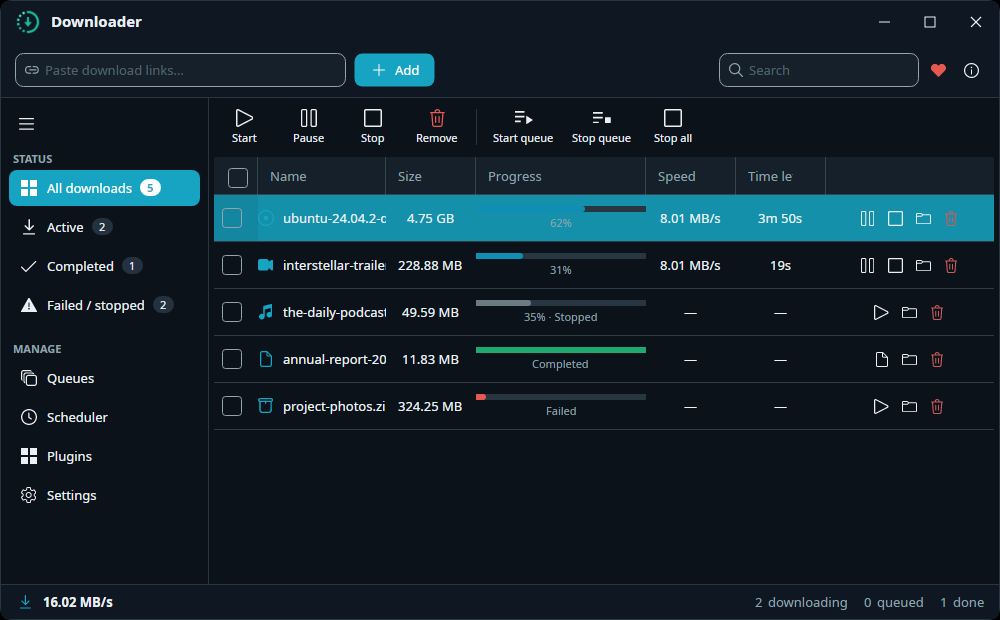
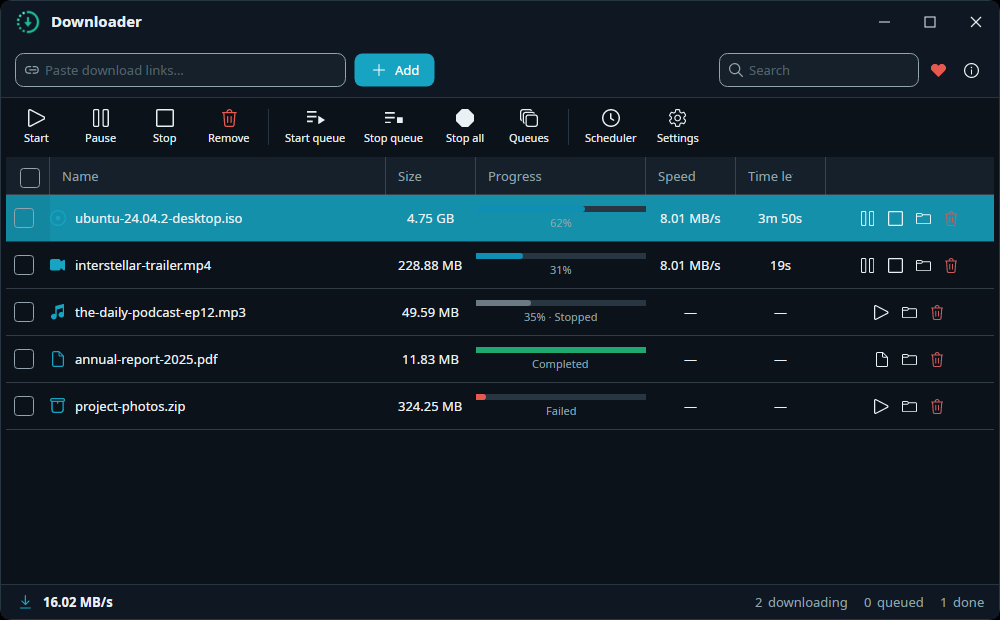
feat(ui): remove left nav rail; Queues/Scheduler/Settings as dialogs; Plugins into Settings
Big UX simplification (the left menu confused users):
- Removed the left nav rail entirely. The main view is ALWAYS the downloads list.
- Queues / Scheduler / Settings now open as DIALOGS over the list (new generic
  PageDialogView host + DialogHelper.ShowPage; Esc/title-bar close).
- Toolbar reads: | Start, Pause, Stop, Remove | Start queue, Stop queue, Stop all,
  Queues | Scheduler, Settings | (nav buttons bound to MainViewModel via the window).
- Dropped the status filters (All/Active/Completed/Failed) — search-box only, per
  the author's call.
- Plugins moved from a top-level menu into a collapsible 'Plugins (add-ons)' section
  in Settings (advanced; normal users never see it). PluginsView made embeddable.
- 'Update Downloader' (ready) button moved to the top bar.

124 tests green; screenshots regenerated (no left rail; dialogs).

Claude-Session: https://claude.ai/code/session_01MDReJvpoTvwzYi1LSTJyvR

diff --git a/src/Downloader.Desktop.Tests/CaptureScreenshots.cs b/src/Downloader.Desktop.Tests/CaptureScreenshots.cs
@@ -158,56 +158,48 @@ public class CaptureScreenshots
         Application.Current!.RequestedThemeVariant = ThemeVariant.Light;
         Save(window, "home-light.png");
 
-        // Settings page (dark + light, so the README can be theme-aware)
-        Application.Current!.RequestedThemeVariant = ThemeVariant.Dark;
-        vm.ShowSettingViewCommand.Execute(null);
-        Save(window, "settings-dark.png");
-        Application.Current!.RequestedThemeVariant = ThemeVariant.Light;
-        Save(window, "settings-light.png");
         Application.Current!.RequestedThemeVariant = ThemeVariant.Dark;
 
-        // Settings scrolled to the new Language(flag) + Theme + Accent controls so the accent picker and
-        // the country flag are actually visible in docs (they sit below the fold in the top-of-page shot).
+        // Management pages now open as DIALOGS over the always-downloads list (the left rail was removed).
+        // Render each via the PageDialogView host (Show, not ShowDialog, so the capture doesn't block).
+        var settingsDlg = new PageDialogView(vm.Settings, "Settings");
+        settingsDlg.Show();
+        Save(settingsDlg, "settings-dark.png");
+        Application.Current!.RequestedThemeVariant = ThemeVariant.Light;
+        Save(settingsDlg, "settings-light.png");
+        Application.Current!.RequestedThemeVariant = ThemeVariant.Dark;
+        // Scroll to the Theme/Accent/Language(flag) controls so the accent picker + flag are visible.
         Pump();
-        var settingsView = window.GetVisualDescendants().OfType<Downloader.Desktop.Views.SettingView>().FirstOrDefault();
-        var sv = settingsView?.GetVisualDescendants().OfType<Avalonia.Controls.ScrollViewer>().FirstOrDefault();
+        var sv = settingsDlg.GetVisualDescendants().OfType<Downloader.Desktop.Views.SettingView>().FirstOrDefault()
+            ?.GetVisualDescendants().OfType<Avalonia.Controls.ScrollViewer>().FirstOrDefault();
         if (sv != null)
         {
             sv.Offset = new Avalonia.Vector(0, 215);
-            Save(window, "settings-accent-dark.png");
+            Save(settingsDlg, "settings-accent-dark.png");
             Application.Current!.RequestedThemeVariant = ThemeVariant.Light;
-            Save(window, "settings-accent-light.png");
+            Save(settingsDlg, "settings-accent-light.png");
             Application.Current!.RequestedThemeVariant = ThemeVariant.Dark;
-            sv.Offset = default;
         }
+        settingsDlg.Close();
 
-        // Queues page (real queue manager: aggregate stats + per-item progress/actions).
-        vm.ShowQueuesCommand.Execute(null);
-        Save(window, "queues-dark.png");
+        var queuesDlg = new PageDialogView(vm.Queues, "Queues");
+        queuesDlg.Show();
+        Save(queuesDlg, "queues-dark.png");
         Application.Current!.RequestedThemeVariant = ThemeVariant.Light;
-        Save(window, "queues-light.png");
+        Save(queuesDlg, "queues-light.png");
         Application.Current!.RequestedThemeVariant = ThemeVariant.Dark;
+        queuesDlg.Close();
 
-        // Scheduler page (daily start/stop rules per queue).
-        vm.ShowSchedulerCommand.Execute(null);
-        Save(window, "scheduler-dark.png");
+        var schedulerDlg = new PageDialogView(vm.Scheduler, "Scheduler");
+        schedulerDlg.Show();
+        Save(schedulerDlg, "scheduler-dark.png");
         Application.Current!.RequestedThemeVariant = ThemeVariant.Light;
-        Save(window, "scheduler-light.png");
+        Save(schedulerDlg, "scheduler-light.png");
         Application.Current!.RequestedThemeVariant = ThemeVariant.Dark;
-
-        // Plugins page (add-ons that extend the app — HLS/video, torrents, …).
-        vm.ShowPluginsCommand.Execute(null);
-        Save(window, "plugins-dark.png");
-        Application.Current!.RequestedThemeVariant = ThemeVariant.Light;
-        Save(window, "plugins-light.png");
-        Application.Current!.RequestedThemeVariant = ThemeVariant.Dark;
-
-        vm.ShowSettingViewCommand.Execute(null); // leave a known page before the RTL capture
-        vm.ShowAllCommand.Execute(null);
+        schedulerDlg.Close();
 
         // Persian (RTL) home to verify translation + right-to-left mirroring.
         Localizer.Instance.Load("fa");
-        vm.ShowAllCommand.Execute(null);
         Save(window, "home-fa-dark.png");
         Localizer.Instance.Load("en");
 

diff --git a/src/Downloader.Desktop/ViewModels/MainViewModel.cs b/src/Downloader.Desktop/ViewModels/MainViewModel.cs
@@ -46,10 +46,10 @@ public class MainViewModel : ViewModelBase
         ShowActiveCommand = ReactiveCommand.Create(() => SelectFilter(StatusFilter.Active));
         ShowCompletedCommand = ReactiveCommand.Create(() => SelectFilter(StatusFilter.Completed));
         ShowFailedCommand = ReactiveCommand.Create(() => SelectFilter(StatusFilter.Failed));
-        ShowQueuesCommand = ReactiveCommand.Create(() => Navigate(NavSection.Queues));
-        ShowSchedulerCommand = ReactiveCommand.Create(() => Navigate(NavSection.Scheduler));
-        ShowPluginsCommand = ReactiveCommand.Create(() => Navigate(NavSection.Plugins));
-        ShowSettingViewCommand = ReactiveCommand.Create(() => Navigate(NavSection.Settings));
+        // Management pages open as dialogs over the always-downloads main view (the left rail was removed).
+        ShowQueuesCommand = ReactiveCommand.CreateFromTask(() => DialogHelper.ShowPage(Queues, Localizer.Instance["Nav_Queues"]));
+        ShowSchedulerCommand = ReactiveCommand.CreateFromTask(() => DialogHelper.ShowPage(Scheduler, Localizer.Instance["Nav_Scheduler"]));
+        ShowSettingViewCommand = ReactiveCommand.CreateFromTask(() => DialogHelper.ShowPage(Settings, Localizer.Instance["Nav_Settings"]));
         ToggleSidebarCommand = ReactiveCommand.Create(() => IsSidebarExpanded = !IsSidebarExpanded);
         ShowAboutCommand = ReactiveCommand.CreateFromTask(DialogHelper.ShowAbout);
         DonateCommand = ReactiveCommand.Create(() =>
@@ -71,7 +71,6 @@ public class MainViewModel : ViewModelBase
     public DownloadsViewModel Downloads { get; private set; }
     public QueuesViewModel Queues { get; private set; }
     public SchedulerViewModel Scheduler { get; private set; }
-    public PluginsViewModel Plugins { get; private set; }
     public SettingViewModel Settings { get; private set; }
 
     public object CurrentPage
@@ -91,7 +90,6 @@ public class MainViewModel : ViewModelBase
     public ICommand ShowFailedCommand { get; }
     public ICommand ShowQueuesCommand { get; }
     public ICommand ShowSchedulerCommand { get; }
-    public ICommand ShowPluginsCommand { get; }
     public ICommand ShowSettingViewCommand { get; }
     public ICommand ToggleSidebarCommand { get; }
     public ICommand ShowAboutCommand { get; }
@@ -140,7 +138,6 @@ public class MainViewModel : ViewModelBase
     public bool IsFailedSelected => _section == NavSection.Downloads && _filter == StatusFilter.Failed;
     public bool IsQueuesSelected => _section == NavSection.Queues;
     public bool IsSchedulerSelected => _section == NavSection.Scheduler;
-    public bool IsPluginsSelected => _section == NavSection.Plugins;
     public bool IsSettingsSelected => _section == NavSection.Settings;
 
     // ---- Status bar ----
@@ -175,8 +172,7 @@ public class MainViewModel : ViewModelBase
         Downloads = new DownloadsViewModel(_downloadManager);
         Queues = new QueuesViewModel(_config, _downloadManager);
         Scheduler = new SchedulerViewModel(_config, _downloadManager);
-        Plugins = new PluginsViewModel(_pluginManager, _config);
-        Settings = new SettingViewModel(_config, _downloadManager);
+        Settings = new SettingViewModel(_config, _downloadManager, _pluginManager); // Plugins live in Settings now
 
         // Persist settings to disk as soon as the user changes one (#24), debounced so spinning a
         // NumericUpDown doesn't hammer the file.
@@ -369,7 +365,6 @@ public class MainViewModel : ViewModelBase
         {
             NavSection.Queues => Queues,
             NavSection.Scheduler => Scheduler,
-            NavSection.Plugins => Plugins,
             NavSection.Settings => Settings,
             _ => (object)Downloads
         };
@@ -392,7 +387,6 @@ public class MainViewModel : ViewModelBase
         this.RaisePropertyChanged(nameof(IsFailedSelected));
         this.RaisePropertyChanged(nameof(IsQueuesSelected));
         this.RaisePropertyChanged(nameof(IsSchedulerSelected));
-        this.RaisePropertyChanged(nameof(IsPluginsSelected));
         this.RaisePropertyChanged(nameof(IsSettingsSelected));
     }
 

diff --git a/src/Downloader.Desktop/Views/PageDialogView.axaml.cs b/src/Downloader.Desktop/Views/PageDialogView.axaml.cs
@@ -1,0 +1,51 @@
+using Avalonia;
+using Avalonia.Controls;
+using Avalonia.Input;
+
+namespace Downloader.Desktop.Views;
+
+public partial class PageDialogView : Window
+{
+    public static readonly StyledProperty<object> PageProperty =
+        AvaloniaProperty.Register<PageDialogView, object>(nameof(Page));
+
+    public static readonly StyledProperty<string> PageTitleProperty =
+        AvaloniaProperty.Register<PageDialogView, string>(nameof(PageTitle));
+
+    /// <summary>The hosted page view model (rendered via the window's DataTemplates).</summary>
+    public object Page
+    {
+        get => GetValue(PageProperty);
+        set => SetValue(PageProperty, value);
+    }
+
+    public string PageTitle
+    {
+        get => GetValue(PageTitleProperty);
+        set => SetValue(PageTitleProperty, value);
+    }
+
+    public PageDialogView()
+    {
+        InitializeComponent();
+    }
+
+    public PageDialogView(object page, string title) : this()
+    {
+        Page = page;
+        PageTitle = title;
+        Title = title;
+    }
+
+    /// <summary>Esc closes the dialog (no native chrome to do it).</summary>
+    protected override void OnKeyDown(KeyEventArgs e)
+    {
+        if (e.Key == Key.Escape)
+        {
+            e.Handled = true;
+            Close();
+            return;
+        }
+        base.OnKeyDown(e);
+    }
+}

diff --git a/src/Downloader.Desktop/ViewModels/SettingViewModel.cs b/src/Downloader.Desktop/ViewModels/SettingViewModel.cs
@@ -23,10 +23,15 @@ public class SettingViewModel : ViewModelBase
     private readonly IDownloadManager _manager;
     private DownloadSettings S => _config.Settings;
 
-    public SettingViewModel(Config config, IDownloadManager manager = null)
+    /// <summary>Plugin management, embedded as a collapsible section in Settings (advanced — most users
+    /// never need it, so it's tucked away here rather than a top-level menu).</summary>
+    public PluginsViewModel Plugins { get; }
+
+    public SettingViewModel(Config config, IDownloadManager manager = null, PluginManager pluginManager = null)
     {
         _config = config ?? throw new ArgumentNullException(nameof(config));
         _manager = manager;
+        Plugins = new PluginsViewModel(pluginManager ?? new PluginManager(), _config);
         SelectSavePathCommand = ReactiveCommand.CreateFromTask(SelectSavePath);
         SwitchThemeCommand = ReactiveCommand.Create(SwitchTheme);
         OpenLogsFolderCommand = ReactiveCommand.Create(OpenLogsFolder);

diff --git a/src/Downloader.Desktop/Services/DialogHelper.cs b/src/Downloader.Desktop/Services/DialogHelper.cs
@@ -84,6 +84,16 @@ public static class DialogHelper
         view.Activate();
     }
 
+    /// <summary>Opens a management page (Queues / Scheduler / Settings) as a modal dialog over the
+    /// downloads list — the main view is always the list (the left nav rail was removed).</summary>
+    public static async Task ShowPage(object pageViewModel, string title)
+    {
+        if (MainWindow == null || pageViewModel == null)
+            return;
+        var view = new PageDialogView(pageViewModel, title);
+        await view.ShowDialog(MainWindow);
+    }
+
     /// <summary>Asks the user to pick an existing file (filtered by extension); returns its path or null.</summary>
     public static async Task<Uri> OpenFilePicker(string title, string filterName, string extension)
     {
